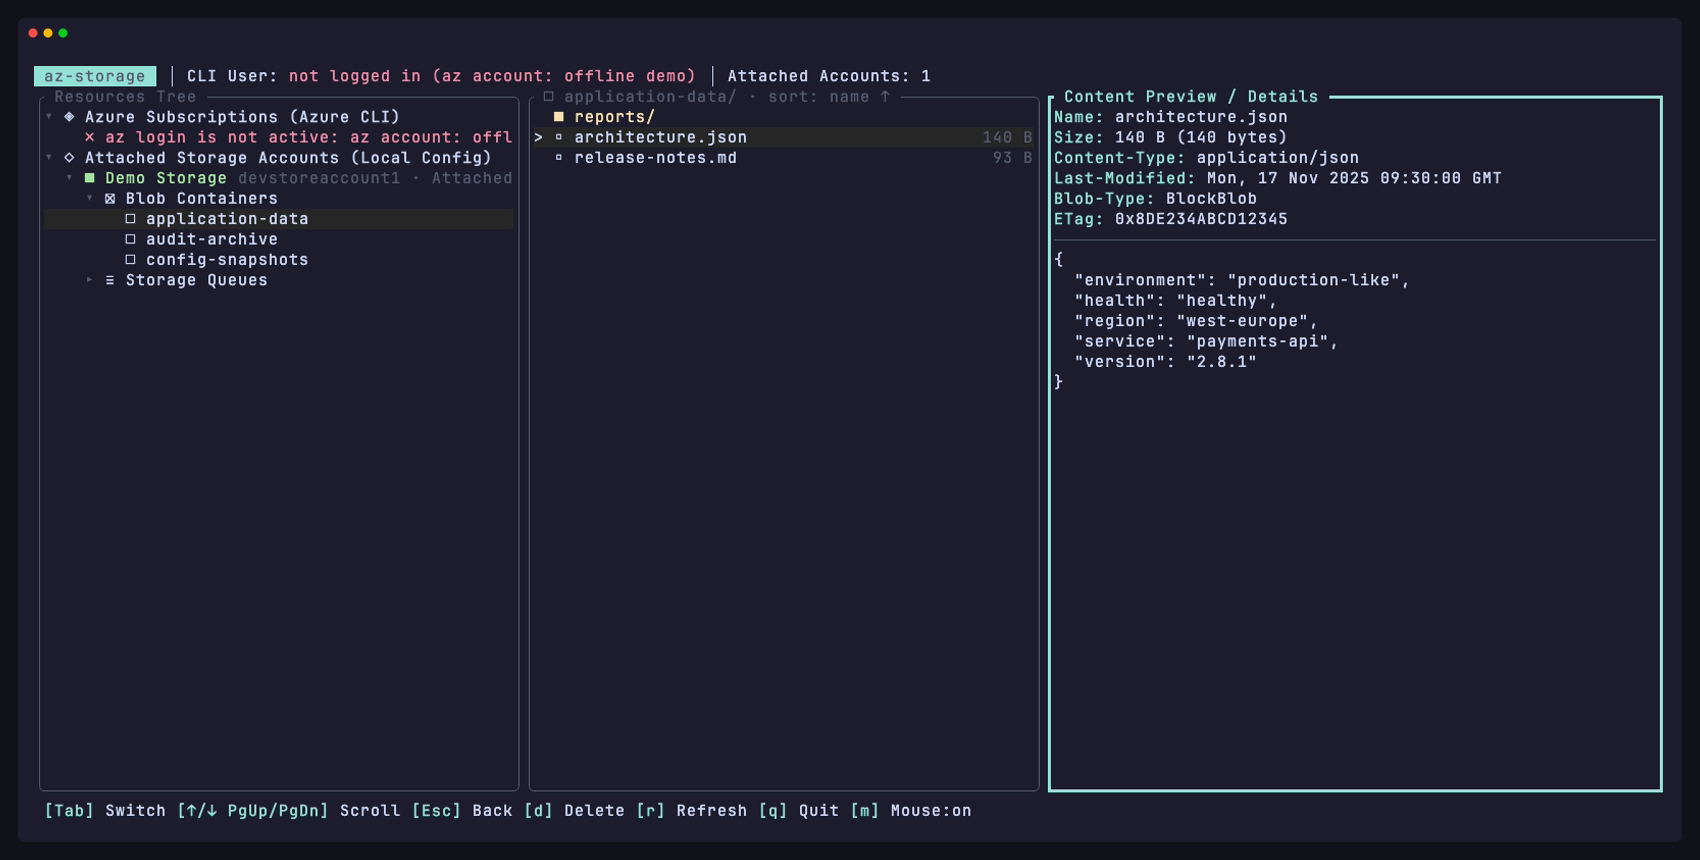
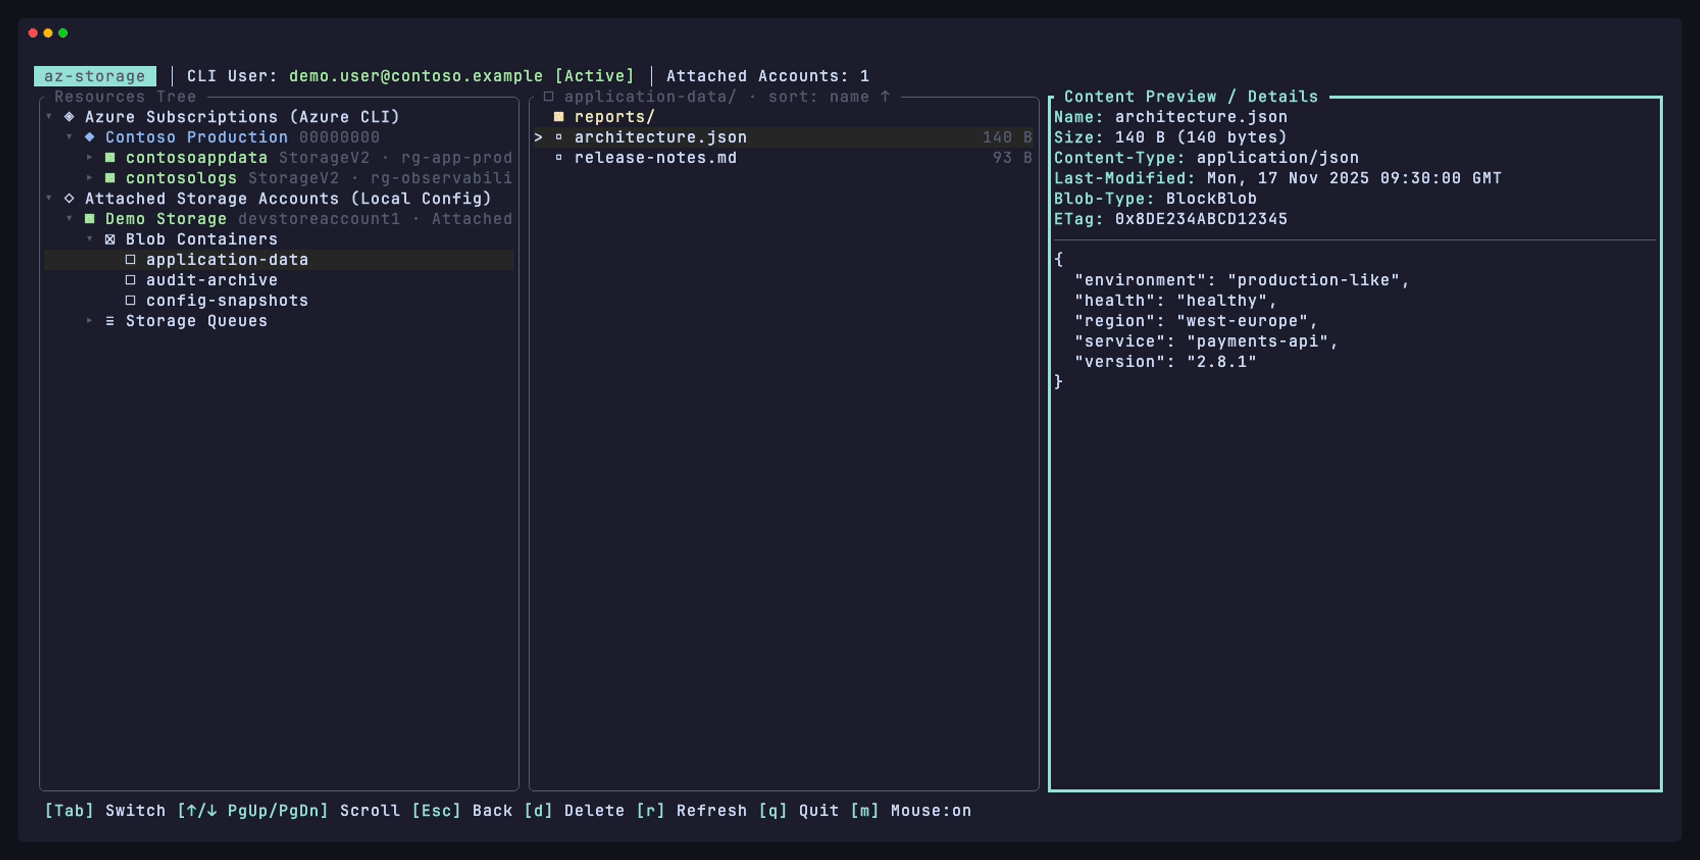
imgs

Changed region(s): [[0.0312, 0.1512, 0.3118, 0.393], [0.1559, 0.0605, 0.4365, 0.1209], [0.4676, 0.0605, 0.53, 0.0907]]

diff --git a/src/arm.rs b/src/arm.rs
@@ -6,6 +6,16 @@ use serde_json::Value;
 
 const ARM: &str = "https://management.azure.com";
 
+/// ARM base URL. `AZ_STORAGE_ARM_URL` overrides it for offline demos and tests
+/// against a local mock; defaults to Azure Resource Manager.
+fn arm() -> String {
+    std::env::var("AZ_STORAGE_ARM_URL")
+        .ok()
+        .filter(|v| !v.is_empty())
+        .map(|v| v.trim_end_matches('/').to_string())
+        .unwrap_or_else(|| ARM.to_string())
+}
+
 async fn get_json(http: &reqwest::Client, token: &str, url: &str) -> Result<Value> {
     let resp = http.get(url).bearer_auth(token).send().await?;
     parse(resp).await
@@ -41,7 +51,7 @@ pub async fn list_subscriptions(http: &reqwest::Client, token: &str) -> Result<V
     let items = get_paged(
         http,
         token,
-        format!("{ARM}/subscriptions?api-version=2022-12-01"),
+        format!("{}/subscriptions?api-version=2022-12-01", arm()),
     )
     .await?;
     let mut subs: Vec<Subscription> = items
@@ -63,7 +73,8 @@ pub async fn list_storage_accounts(
     sub: &Subscription,
 ) -> Result<Vec<StorageAccountNode>> {
     let url = format!(
-        "{ARM}/subscriptions/{}/providers/Microsoft.Storage/storageAccounts?api-version=2023-01-01",
+        "{}/subscriptions/{}/providers/Microsoft.Storage/storageAccounts?api-version=2023-01-01",
+        arm(),
         sub.id
     );
     let items = get_paged(http, token, url).await?;
@@ -103,7 +114,7 @@ pub async fn list_storage_accounts(
 
 /// `POST .../listKeys` → the value of `key1` (or the first available key).
 pub async fn list_keys(http: &reqwest::Client, token: &str, account_id: &str) -> Result<String> {
-    let url = format!("{ARM}{account_id}/listKeys?api-version=2023-01-01");
+    let url = format!("{}{account_id}/listKeys?api-version=2023-01-01", arm());
     let resp = http
         .post(url)
         .bearer_auth(token)
